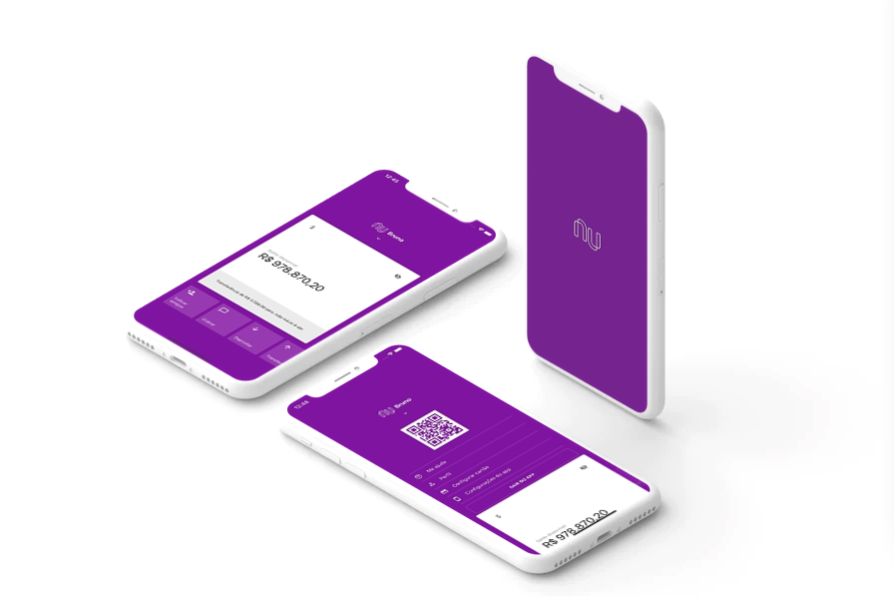
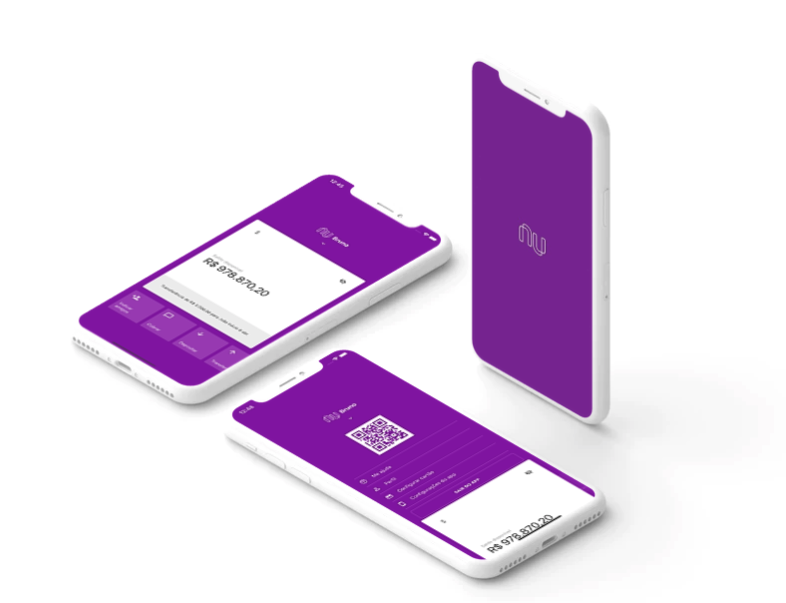
- Atualizando arquivo Readme do projeto

diff --git a/README.md b/README.md
@@ -1,5 +1,5 @@
 <div align="center">
-    <img alt="Desktop" title="#Desktop" src="src/assets/01.png" width="680px" />
+    <img alt="Desktop" title="#Desktop" src="src/assets/01.png" />
 </div>
 
 <p align="center">
@@ -41,7 +41,7 @@ Clone o repositório em sua maquina:
 ## Layout
 
 <div align="center">
-    <img alt="Mobile" title="#Mobile" src="src/assets/02.png" width="680px" />
+    <img alt="Mobile" title="#Mobile" src="src/assets/02.png" />
 </div>
 
 <div align="center">
